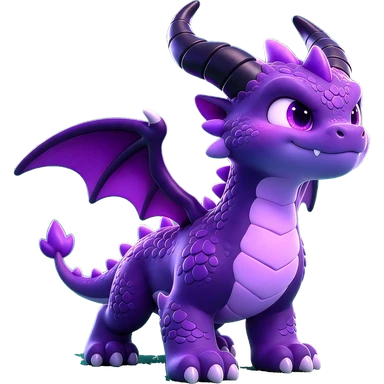
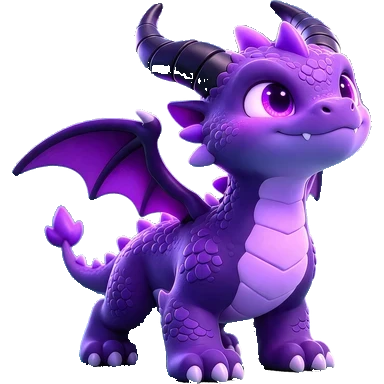
R 級龍換 Sky 新出嘅圖
Claude-Session: https://claude.ai/code/session_01E2utfFQBUZUAHLnSXfgdjb

diff --git a/public/sw.js b/public/sw.js
@@ -1,5 +1,5 @@
 // 大富翁 service worker: keeps the app shell and art so the board opens without a network.
-const CACHE = "dafuweng-v145";
+const CACHE = "dafuweng-v146";
 const SHELL = [
   "/",
   "/manifest.webmanifest",
